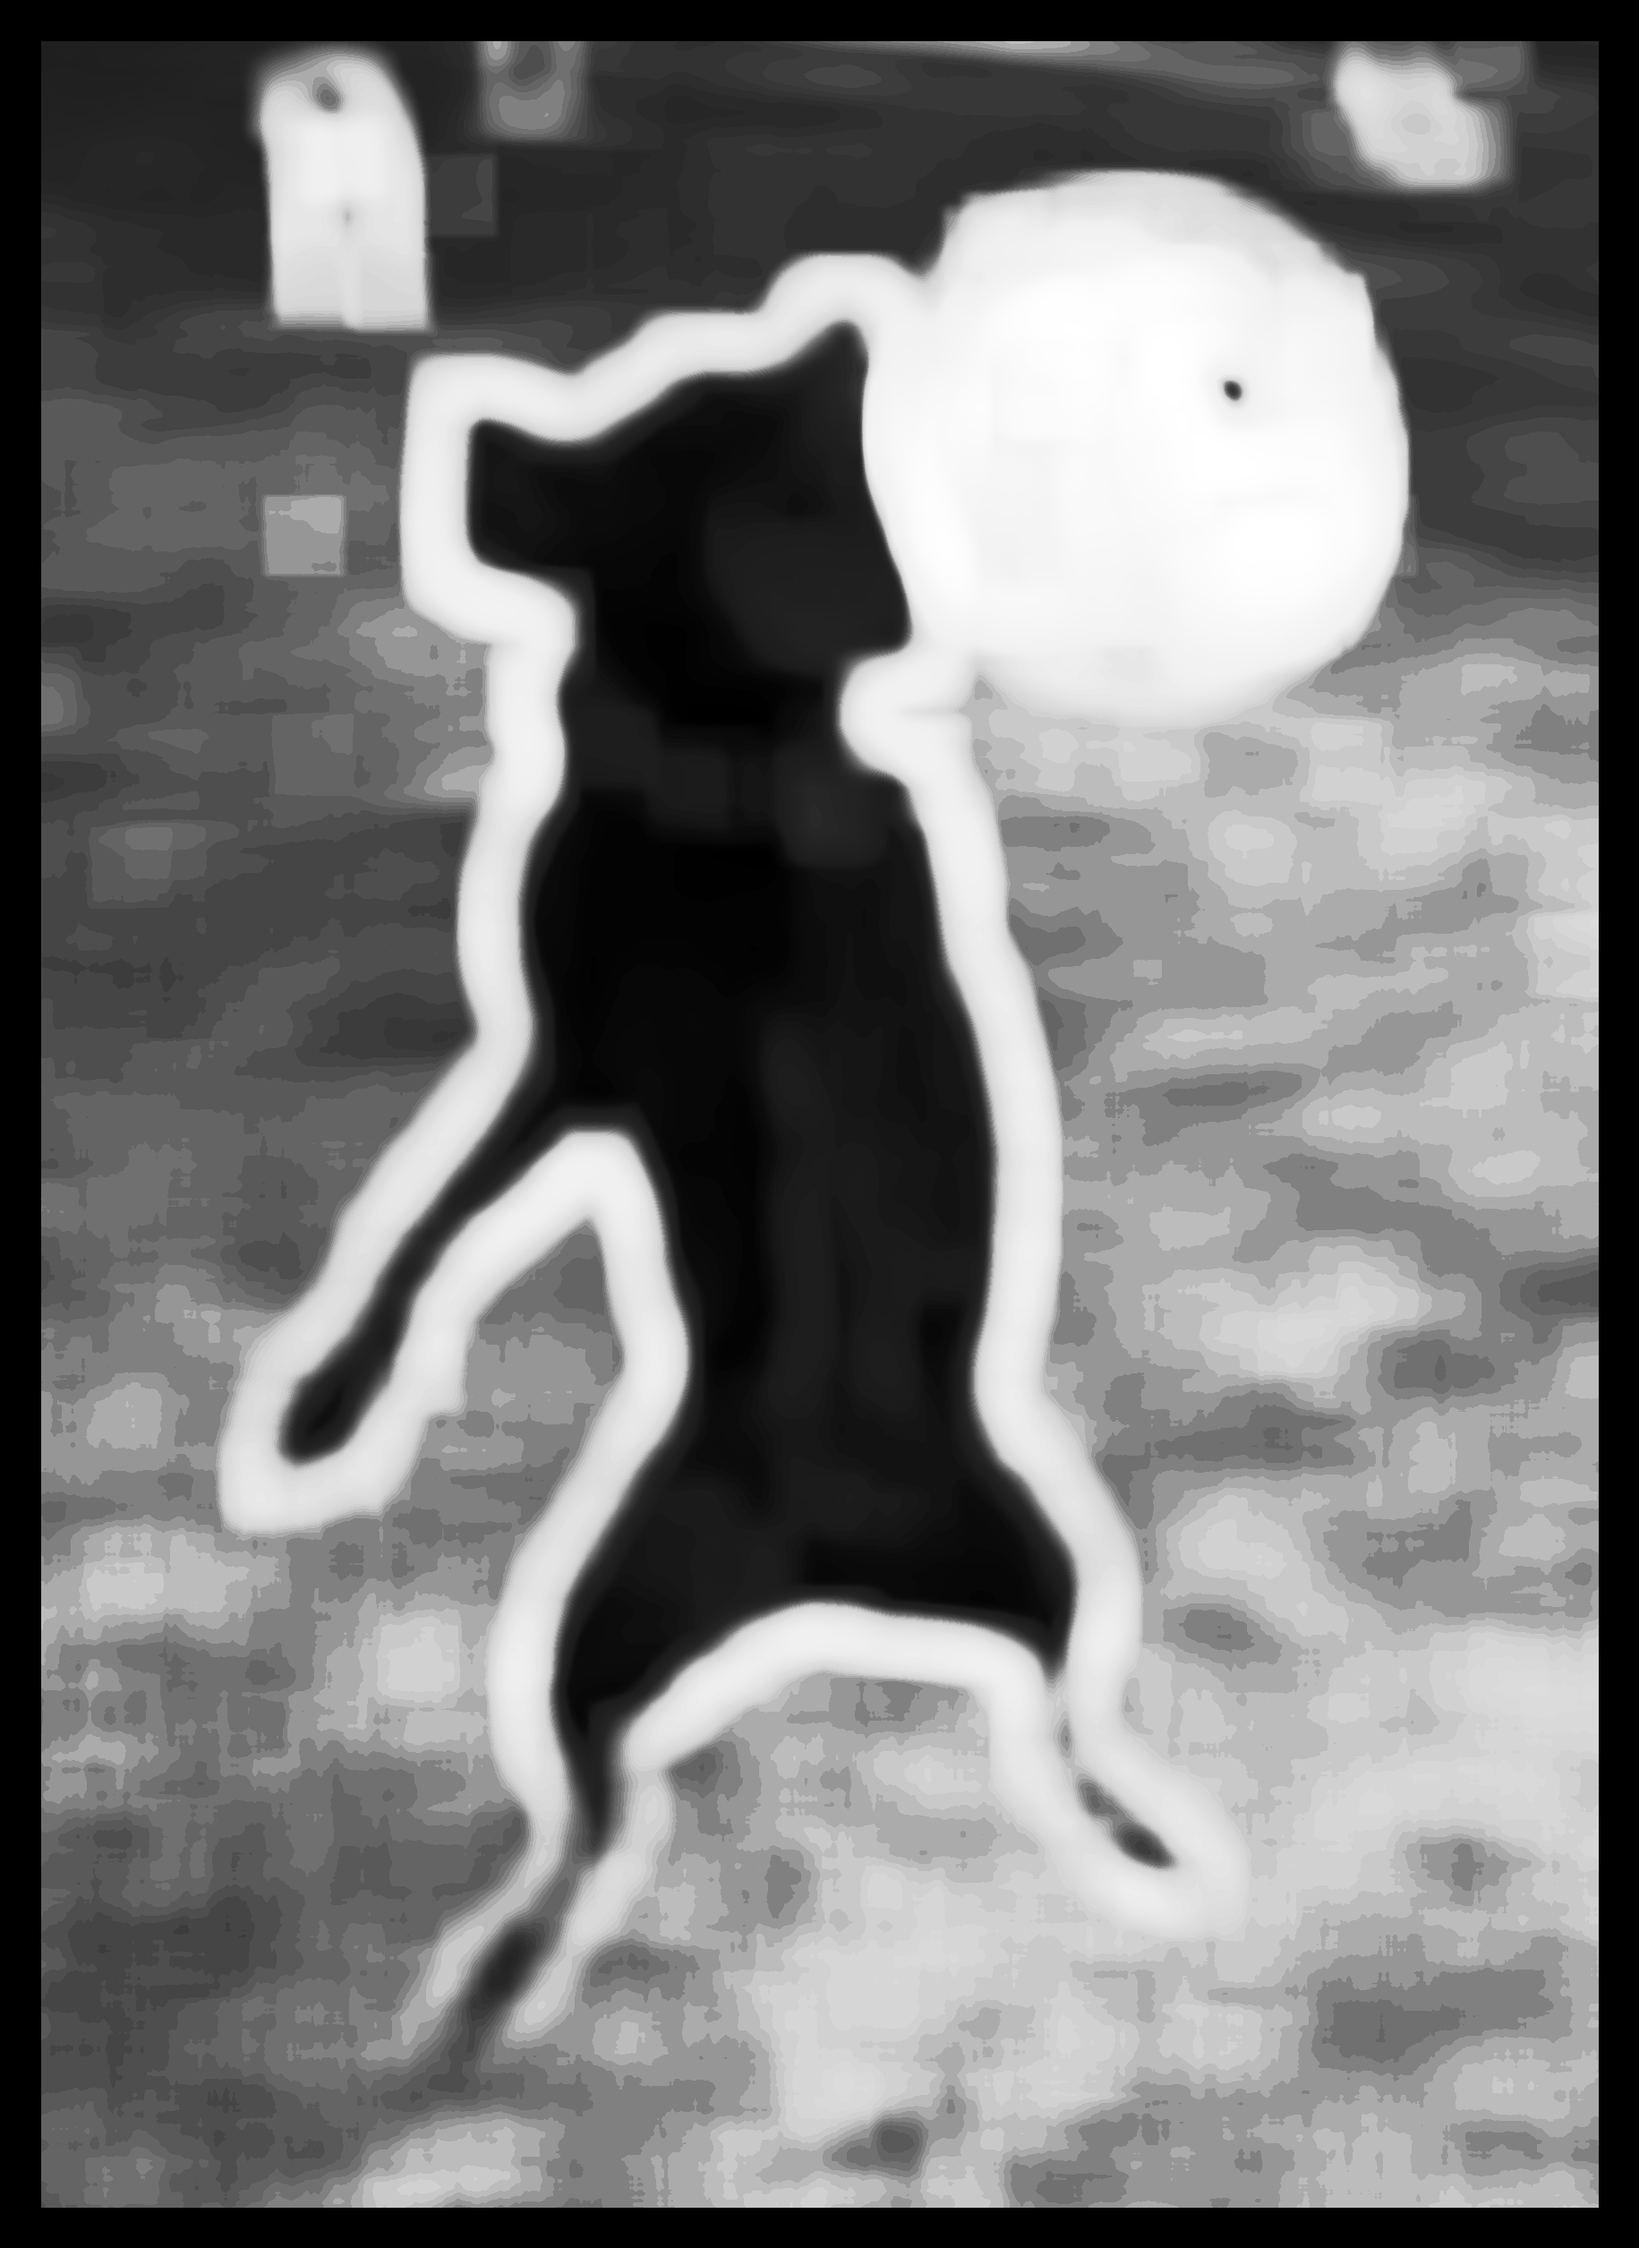
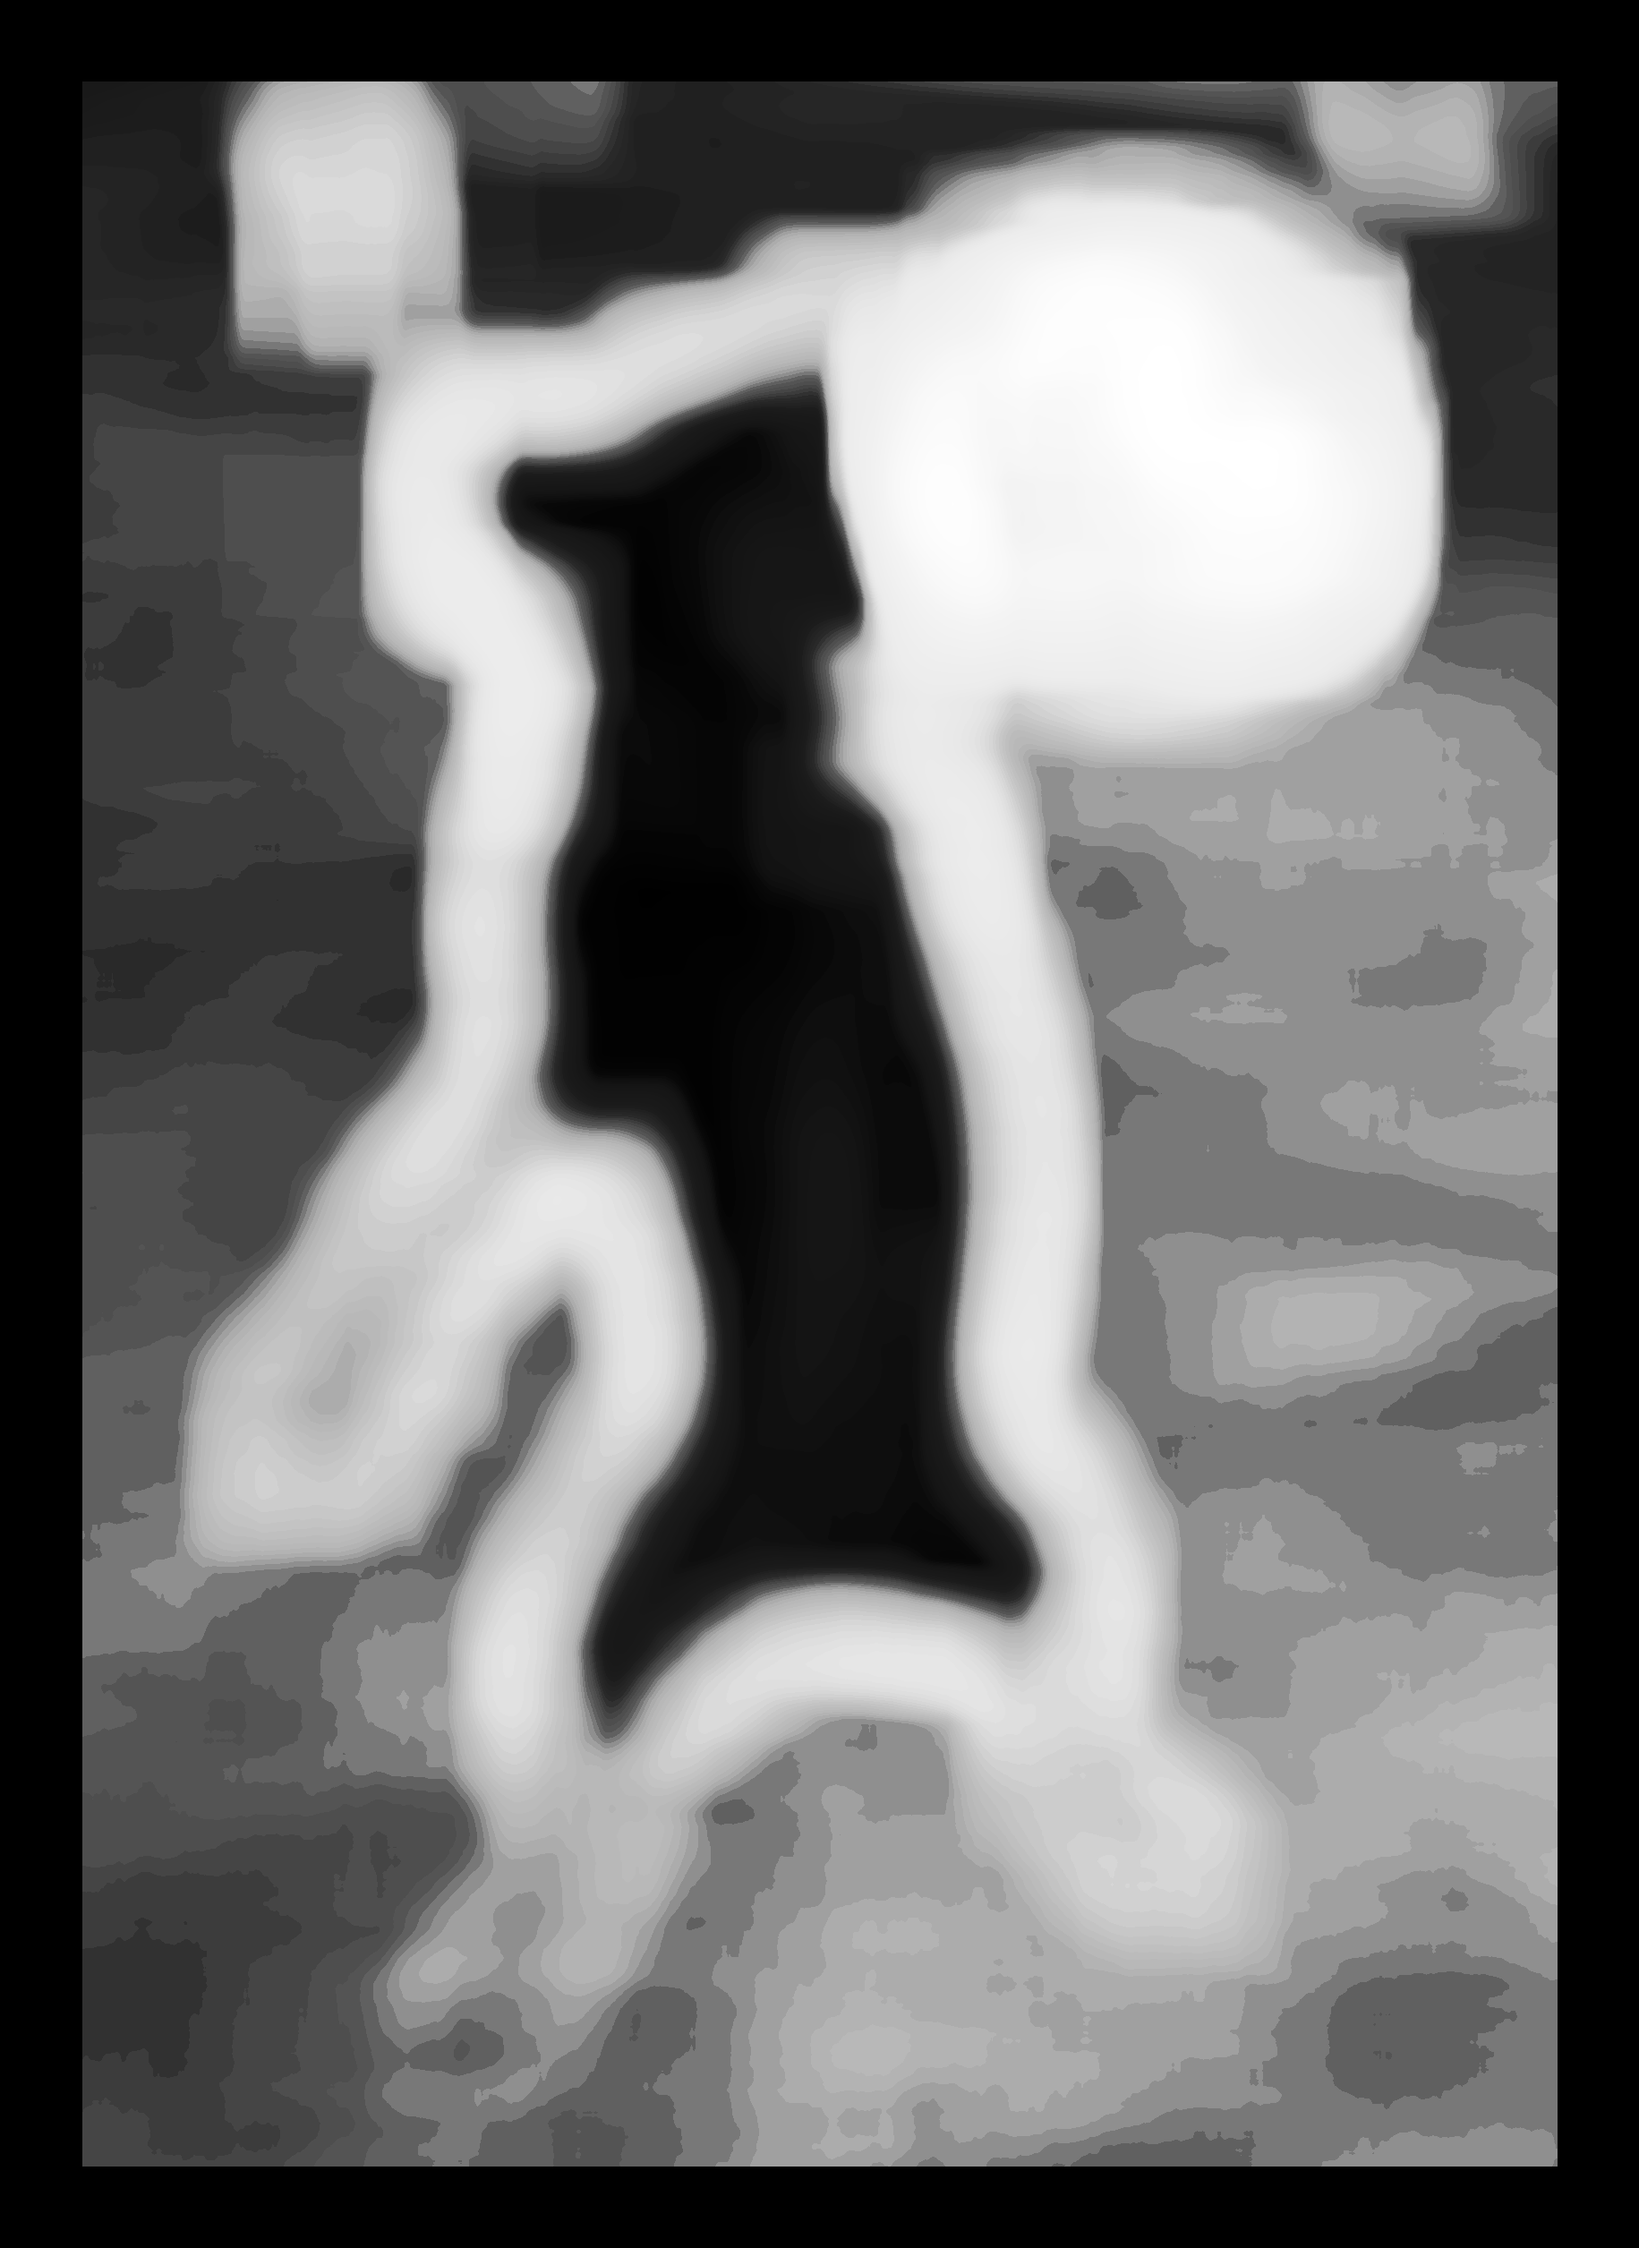
Bug fixed. Ready to go

diff --git a/python/colourfullness.py b/python/colourfullness.py
@@ -1,13 +1,14 @@
-# This will analyse a picture and produce 2 derivatives of the picture that visualise the colourfullness of the image
-# The first derivative shows a greyscale image where the lightness is proprtional to the colourfullness
+# This will analyse a picture and produce 2 derivatives of the picture that visualise the colourfulness of the image
+# The first derivative shows a greyscale image where the lightness is proprtional to the colourfulness
 # the second derivative shows the original knocked back to grey and then dimmed to 0.25 with the 
-# colourfullness (also knocked back to 0.75 so no overflow) added onto the blue channel
-# it results in the original still being easily recognisable with the colourfull areas then being more blue
-# Inspired by and using the colourfullness calculation from Adrian at pyImageSearch 
-# in response to the blog article 
+# colourfulness (also knocked back to 0.75 so no overflow) added onto the blue channel
+# it results in the original still being easily recognisable with the colourful areas then being more red
+# Inspired by and using the colourfulness calculation from Adrian at pyImageSearch 
+# in response to the blog article http://www.pyimagesearch.com/2017/06/26/labeling-superpixel-colorfulness-opencv-python/
 
+def roicolourfulness(roi):
+    # thanks to Adrian for this function
 
-def roiColourfulness(roi):
 	# split the roi into its respective RGB components
 	(B, G, R) = cv2.split(roi.astype("float"))
  
@@ -30,19 +31,23 @@ def roiColourfulness(roi):
 
 import cv2
 import numpy as np 
+import time
 
+# start a timer because it's a long process!!
+startTime = time.time()
+
+# switch on or off the helpful print or save statements 
 debug = True
 
 # how much of the original to include in the second derivative image
-proportionOfOriginal = 0.3
+proportionOfOriginal = 0.25
 
-# read in a colourful picture
-imagePath = "../images/tests/colourfullness/20170617_185021.jpg"
-imagePath = "../images/tests/colourfullness/20170617_185021ShrunkMore.png"
-imagePath = "../images/tests/colourfullness/20170617_185021Shrunk.png"
-imagePath = "../images/tests/colourfullness/20170415_154428.jpg"
+# read in a colourful picture (choose one of the images below)
+imagePath = "../images/basilCatchingBall.jpg"
+imagePath = "../images/basilCatchingBallShrunk10.png"
+
 # where to save the pictures
-savePath = "/media/sf_localDesktop/debug"
+saveFolder = "../results/"
 
 # read it in unchanged
 imageColour = cv2.imread(imagePath)
@@ -51,54 +56,69 @@ imageColour = cv2.imread(imagePath)
 imageGrey = cv2.cvtColor(imageColour, cv2.COLOR_BGR2GRAY)
 cv2.equalizeHist(imageGrey, imageGrey) # spreads it out so 0 and 255
 
-# knock it  back to quarter
+# knock it  back 
 imageGreyHalf = np.zeros_like(imageGrey)
 imageGreyHalf[:] = imageGrey * proportionOfOriginal
 
-print("imageGreyHalf.shape", imageGreyHalf.shape)
+if debug:
+    print("imageGreyHalf.shape", imageGreyHalf.shape)
 
-# need to change the dtype here
-imageGreyHalfAsUint8 = imageGreyHalf.view(dtype=np.uint8)
-
-print("imageGreyHalfAsUint8.shape", imageGreyHalfAsUint8.shape)
-
-imageGreyForMarkup = cv2.cvtColor(imageGreyHalfAsUint8, cv2.COLOR_GRAY2BGR)
+# add some colour channels so that we can put a function of colourfulness in one of them later
+imageGreyForMarkup = cv2.cvtColor(imageGreyHalf, cv2.COLOR_GRAY2BGR)
 
 # get the basic dimensions
 height, width, channels = imageColour.shape
 
 # set the size of the window that we will roll over the image
-roiSize = min(height,width) / 20 # pixels for height and width of roi. Must be odd
-roiSize = int(roiSize / 2) * 2 + 1 # yes, it must be odd
+roiSize = min(height,width) / 10 # proportion of min image dimensions to have as roi size
+roiSize = int(roiSize / 2) * 2 + 1 # it must be odd
 halfRoiSize = int(roiSize / 2)
 
-# create a temporary home for the colourfulness index before I normalize it to 0-255 and put it back on the red channel
-colourfullnessChannel = np.zeros_like(imageGrey)
+# create a temporary home for the colourfulness index before I normalize it to 0-255 and put it back on a colour channel
+colourfulnessChannel = np.zeros_like(imageGrey)
 
-for rowIndex in range(height - halfRoiSize):
-    if rowIndex <= halfRoiSize:
-        continue
-    for pixelIndex in range(width - halfRoiSize):
-        if pixelIndex <= halfRoiSize:
-            continue
+# miss out the first and last bit where the roi doesn't fully cover the image
+for rowIndex in range(halfRoiSize, height - halfRoiSize):
+    for pixelIndex in range(halfRoiSize, width - halfRoiSize):
+
+        # define the region of interest that surrounds this pixel
         roi = imageColour[rowIndex - halfRoiSize: rowIndex + halfRoiSize, pixelIndex - halfRoiSize: pixelIndex + halfRoiSize]
 
-        colourfullnessindex = roiColourfulness(roi)
+        # use the function to calculate the colourfulness
+        colourfulnessindex = roicolourfulness(roi)
         
-        colourfullnessChannel[rowIndex, pixelIndex] = colourfullnessindex
+        # store it in the equivalent pixel position
+        colourfulnessChannel[rowIndex, pixelIndex] = colourfulnessindex
 
-cv2.equalizeHist(colourfullnessChannel, colourfullnessChannel) # spreads it out so 0 and 255
+# stretch the values
+cv2.equalizeHist(colourfulnessChannel, colourfulnessChannel) # spreads it out so 0 and 255
 
-cv2.imwrite(savePath + "/colourfullnessChannel.png", colourfullnessChannel)
+# save this out as it's the first derivative I desfribed above
+cv2.imwrite(saveFolder + "colourfulnessChannel.png", colourfulnessChannel)
 
-# knock it  back to half
-colourfullnessChannelHalf = np.zeros_like(colourfullnessChannel)
-colourfullnessChannelHalf[:] = colourfullnessChannel * (1 - proportionOfOriginal)
+# knock it  back to a fraction and add it to the original image
+colourfulnessChannelFraction = np.zeros_like(colourfulnessChannel)
+colourfulnessChannelFraction[:] = colourfulnessChannel * (1 - proportionOfOriginal)
 
+# decide which channel to put it on. Aesthetics are your guide here. Remember it's BGR not RGB 
+channelToUseForOverlay = 2
 
-imageGreyForMarkup[:, :, 0] = imageGreyForMarkup[:, :, 0] + colourfullnessChannelHalf
+# replace that channel with the one we created that is a function of the image and the colourfulness
+imageGreyForMarkup[:, :, channelToUseForOverlay] = imageGreyForMarkup[:, :, channelToUseForOverlay] + colourfulnessChannelFraction
 
-cv2.imwrite(savePath + "/imagePlusColourfullnessChannel.png", imageGreyForMarkup)
+# now let's boost the brightness up so it's not too dull
+maxBrightnessOfcolourfulnessChannel = np.max(imageGreyForMarkup[:, :, channelToUseForOverlay]) 
+brightnessBoostfactor = 255 / maxBrightnessOfcolourfulnessChannel
+imageGreyForMarkup[:, :, 0] = imageGreyForMarkup[:, :, 0] * brightnessBoostfactor
+imageGreyForMarkup[:, :, 1] = imageGreyForMarkup[:, :, 1] * brightnessBoostfactor
+imageGreyForMarkup[:, :, 2] = imageGreyForMarkup[:, :, 2] * brightnessBoostfactor
+
+# and save the second derivative out
+cv2.imwrite(saveFolder + "imagePluscolourfulnessChannel.png", imageGreyForMarkup)
+
+# We've finished so time it and print it out
+endTime = time.time()
+print("\nFinished. The run took this many seconds:", endTime - startTime, "\n")
 
 
 
